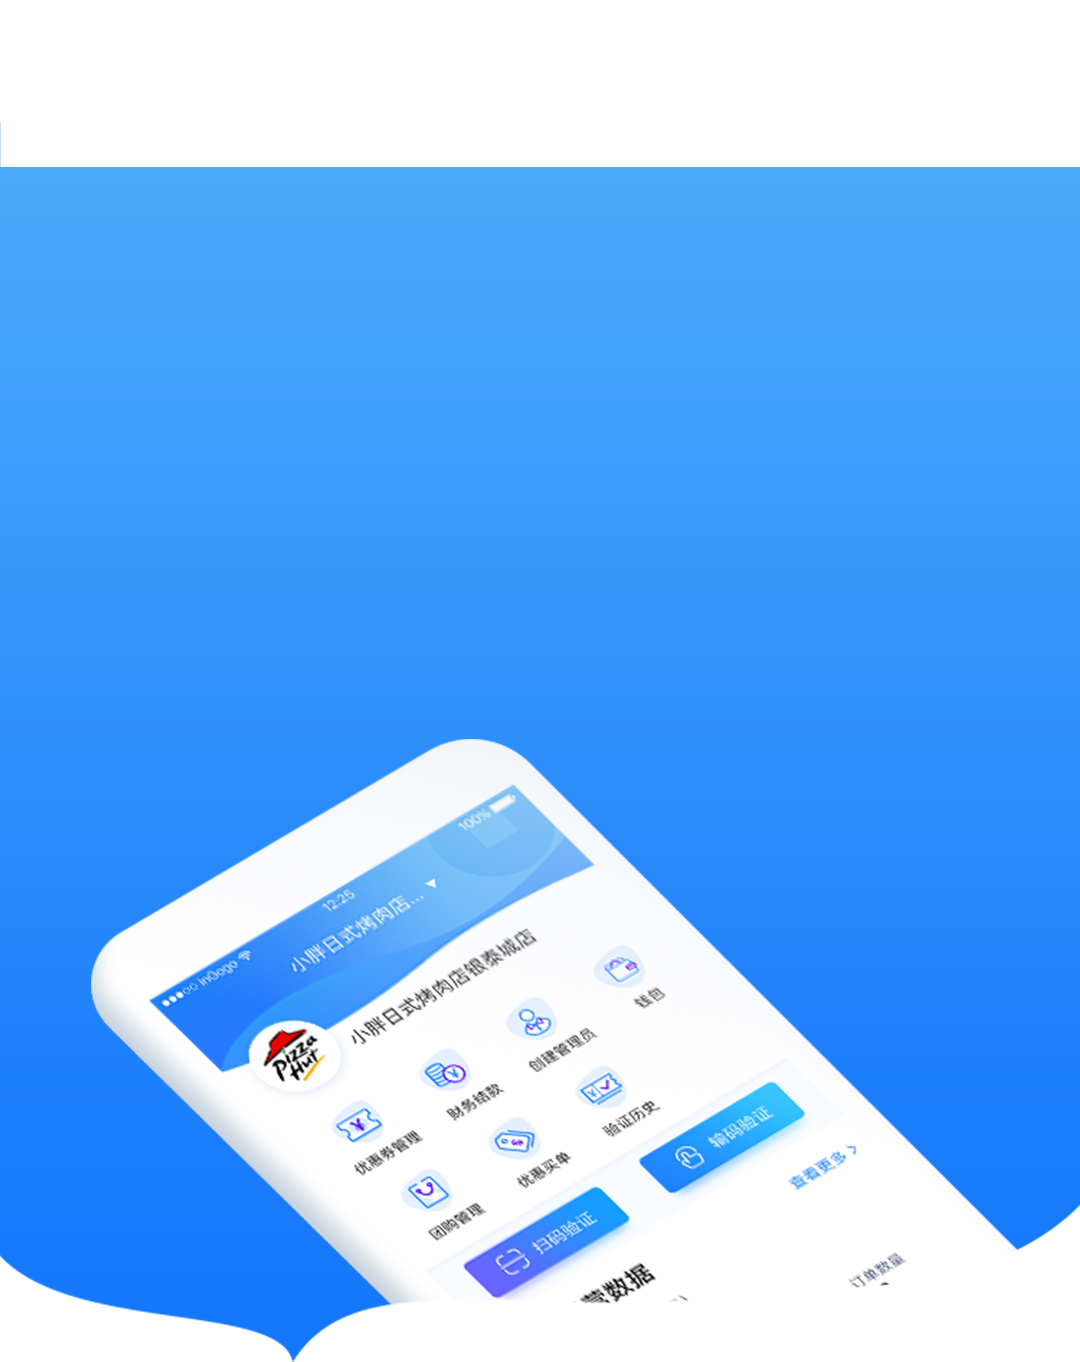
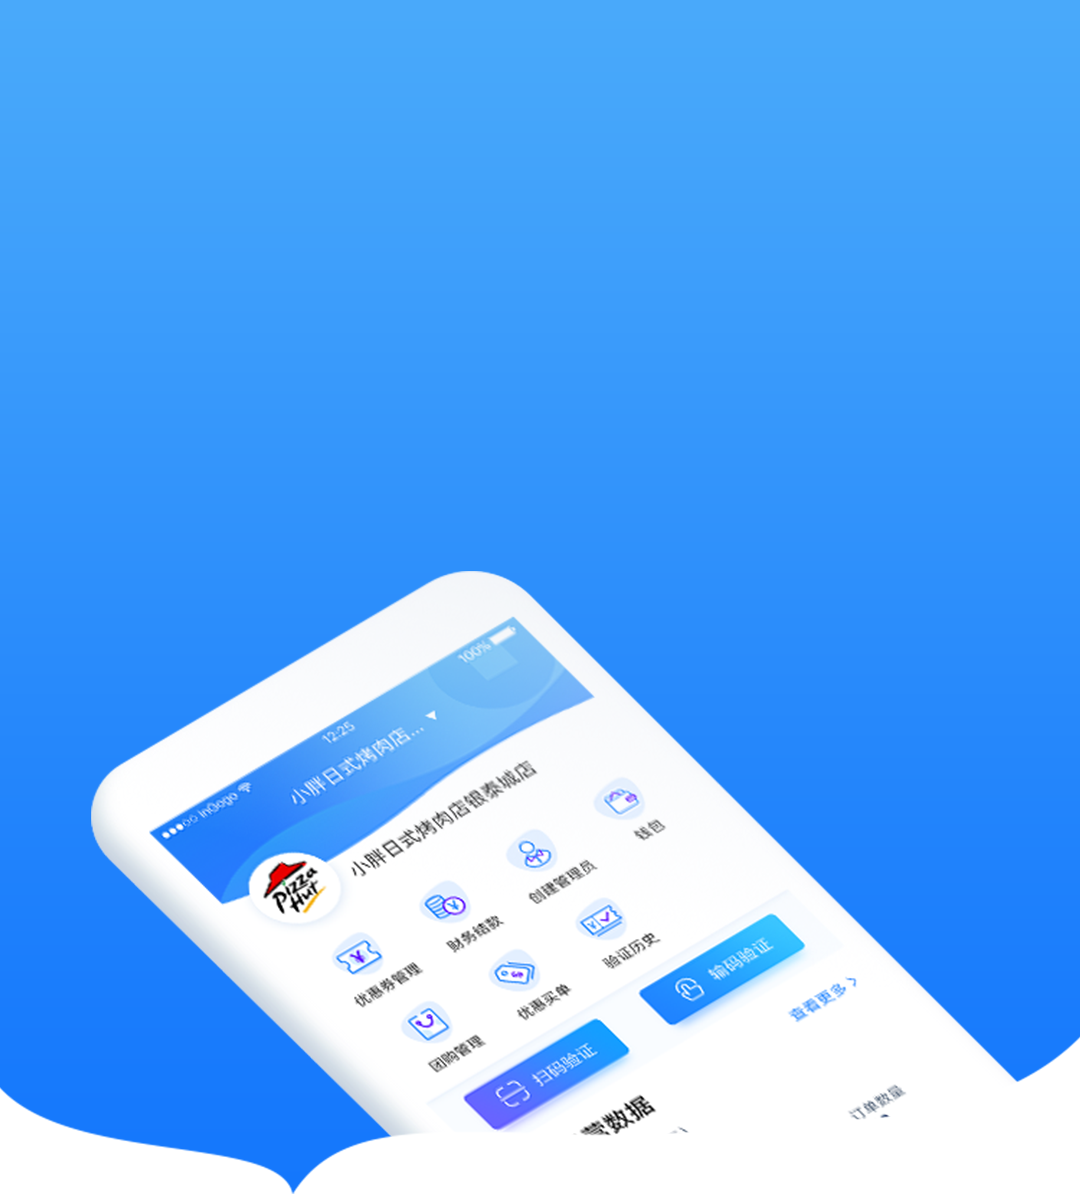
替换背景图

diff --git a/Member.Mobile/views/downloadB/index.html b/Member.Mobile/views/downloadB/index.html
@@ -7,9 +7,9 @@
     <style type="text/css">
 		*{ margin: 0; padding: 0 }
 		body,html{ width: 100%; height:100%; background: url(../../assets/images/downloadB/bg_blue_xxh.png) no-repeat; background-size: 100% auto;}
-		.main{ position: relative; width: 100%; margin: 0 auto;height: 10rem;}
+		.main{ position: relative; width: 100%; margin: 0 auto;height: 3rem;}
 		.main .logoImg{position: absolute; width: 5rem; height: 5rem;  background: url(../../assets/images/downloadB/icon_xxh.png) no-repeat; background-size: contain;top: 50%;left: 50%;margin-left: -2.5rem;  margin-top: 0.5rem;  }
-		.logoTxt{text-align: center; margin: 1.2rem; font-size: 1.1rem; color: #fff;}
+		.logoTxt{text-align: center; margin: 5rem 0 1rem; font-size: 1.1rem; color: #fff;}
 		.mobileShop{width: 14.4rem; height: 1.5rem; margin: 0 auto; background: url(../../assets/images/downloadB/word_xxh.png) no-repeat; background-size: contain;}
 		.btns{position:relative; width: 100%;margin: 16.2rem auto 0; height: 4.6rem;}
 		.btns .botton{width: 90%; margin: 0 auto;}
@@ -20,7 +20,7 @@
 		.remind p small::before, .remind p small::after{content: ""; position: absolute; width: 1rem; height: 0.1rem; top: 1rem; background-color: #999;}
 		.remind p small::before{left: -1.3rem;}
 		.remind p small::after{right: -1.3rem;}
-		.remind .remindCon{width: 90%; margin: 0 auto; font-size: 0.8rem}
+		.remind .remindCon{width: 90%; margin: 0 auto; font-size: 0.8rem; line-height: 1.4rem;}
 		.remind .remindCon span{color: #2084ff; cursor: pointer}
 
 		body.isWx:after {
